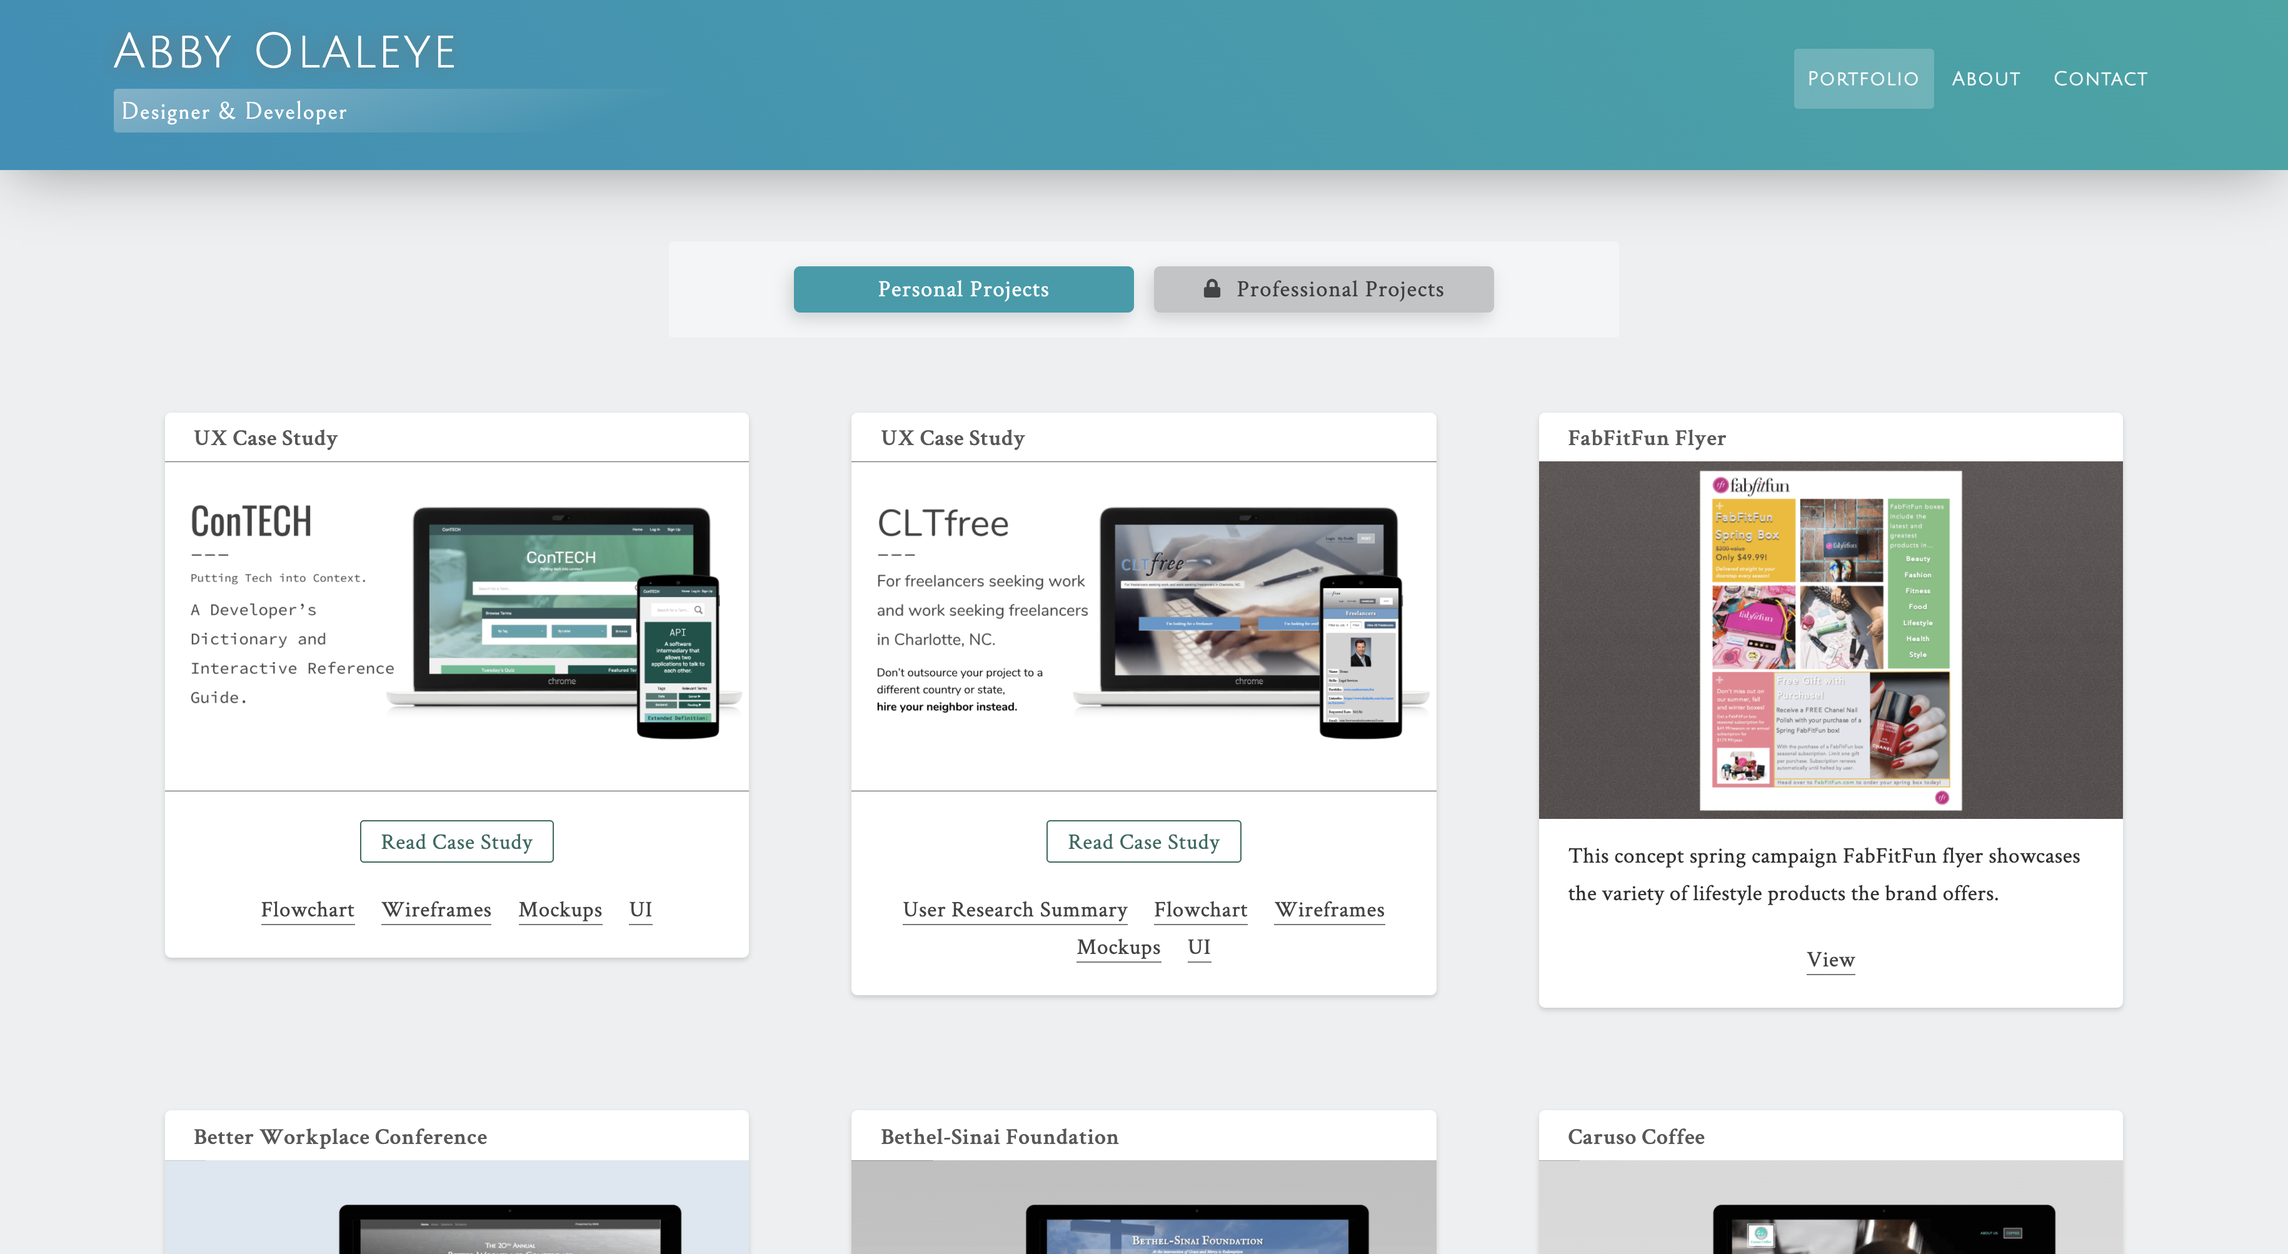
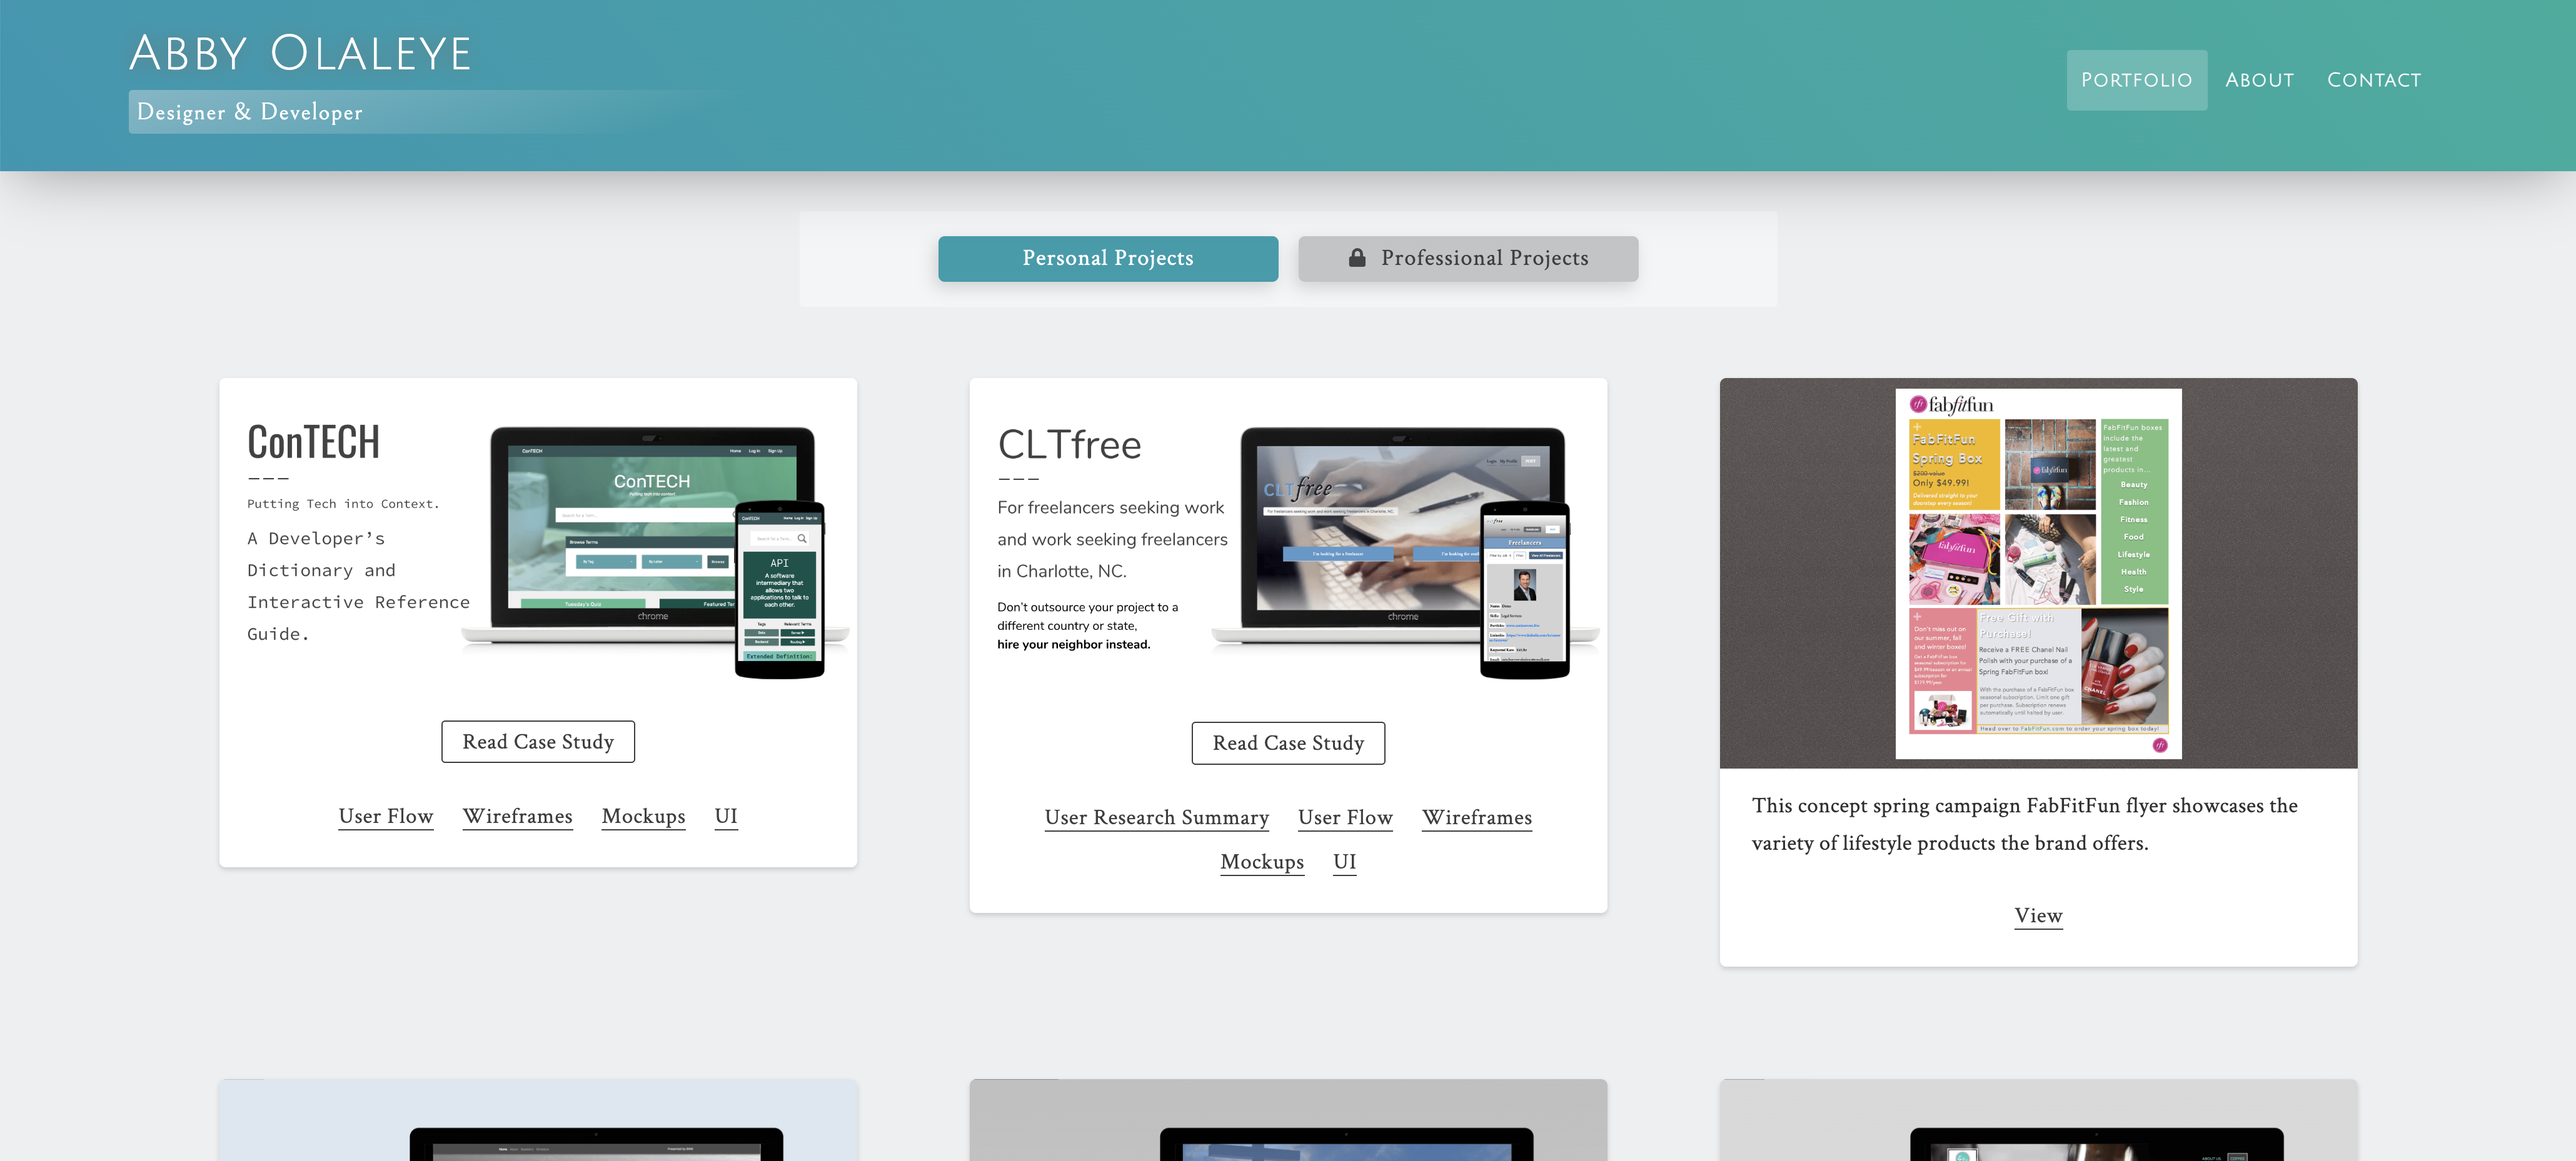
update content

diff --git a/css/main.css b/css/main.css
@@ -288,26 +288,27 @@ PAGE: PORTFOLIO
   /* background: #8e8e8e; */
   padding: 0 1rem 1.5rem;
   border-radius: 0 0 5px 5px;
+  line-height: 2;
 }
 
 .live-site h3 {
-  color: #306a61;
+  color: #3e3e3e;
   text-align: center;
   font-size: 1.05em;
   font-weight: lighter;
   margin: 2%;
   letter-spacing: .5px;
   display: inline;
-  padding-bottom: 1px;
+  padding-bottom: 2åpx;
   /* text-shadow: -1px 1px 0px #e6e6e6; */
   transition: all .1s;
+  border-bottom: 1px solid #3e3e3e;
 }
 
 .live-site h3:hover {
   /* color: #3f9045; */
-  border-bottom: 1px solid #2e886b;
-  /* color: #306a61;
-  border-bottom-color: #306a61; */
+  color: #137682;
+  border-bottom-color: #137682;
   /* font-weight: bold; */
 }
 
@@ -319,8 +320,8 @@ PAGE: PORTFOLIO
   /* border: 1px solid #276257;
   color: #1b443e;
   background: #e6f1ef; */
-  border: 1px solid #306a61;
-  color: #306a61;
+  border: 1px solid #3e3e3e;
+  color: #3e3e3e;
   /* border: none !important;
   background-color: #377c70;
   color: white !important; */
@@ -330,8 +331,8 @@ PAGE: PORTFOLIO
 }
 
 .read-case-study h3:hover {
-  border-color: #377c70;
-  background-color: #e0eae8;
+  border-color: #137682;
+  background-color: #13768217;
   /* color: white !important; */
 }
 
@@ -1245,9 +1246,9 @@ nav a.selected, nav a:hover {
   font-size: .9em;
 }
 
-.row {
+/* .row {
   margin: 0 20px;
-}
+} */
 
 .back-to-top {
   font-family: 'Julius Sans One', sans-serif;
@@ -1471,7 +1472,7 @@ Responsive Layout
   }
 
   .row {
-    justify-content: flex-start;
+    justify-content: space-evenly;
   }
 
 }
@@ -1541,7 +1542,7 @@ Responsive Layout
 @media screen and (min-width: 1300px) {
 
   .column {
-    margin: 10px 60px;
+    margin: 25px 60px;
   }
 
   #about-me p {
